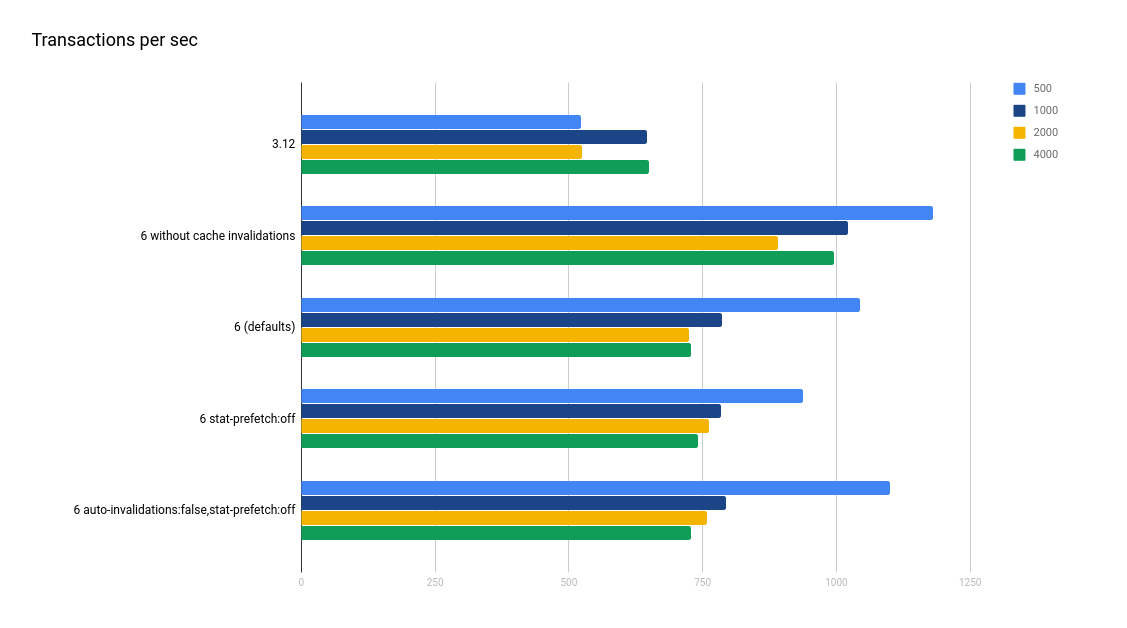
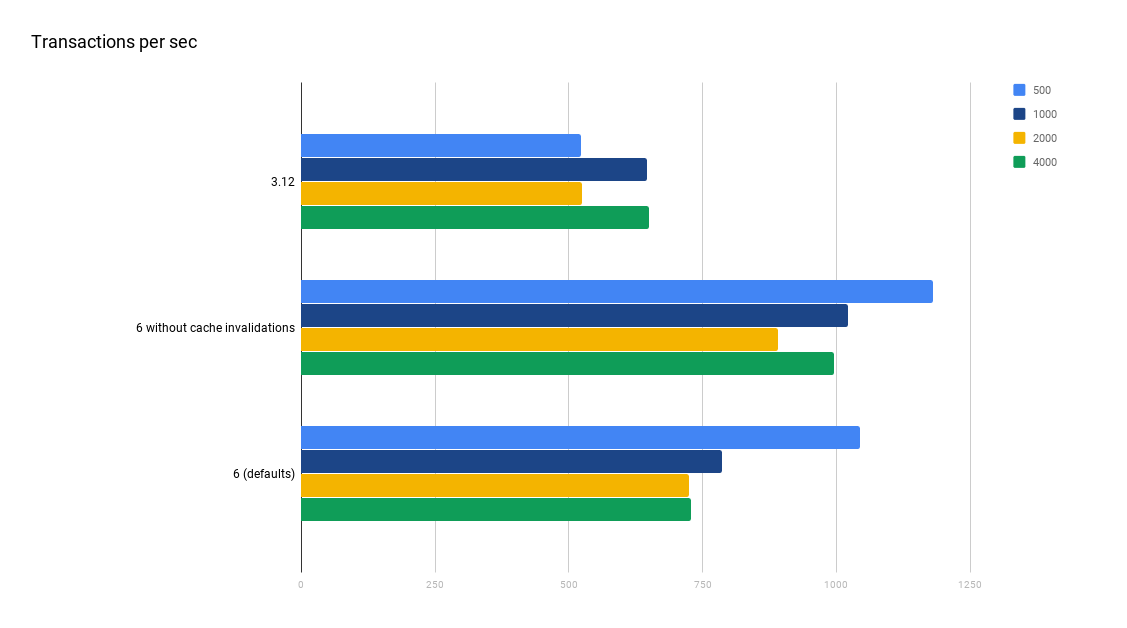
Added Change % and cleaned up images

diff --git a/_posts/2019-04-05-gluster-3-12-vs-6-a-performance-oriented-overview.md b/_posts/2019-04-05-gluster-3-12-vs-6-a-performance-oriented-overview.md
@@ -69,7 +69,7 @@ Steps for preparing the test database:-
 
 `bash-4.2$ time pgbench -i -s 4000 pgbench`
 
-### Time required for creating the database (Gluster 3.12 vs Gluster 6) Thinly Provisioned
+### Time required for creating the database (Gluster 3.12 vs Gluster 6) Thinly Provisioned (Lower is better)
 
 `time pgbench -i -s 4000 pgbench`
 
@@ -82,7 +82,7 @@ Steps for preparing the test database:-
 | 6 (without cache-invalidation) | 25m 24.868s |
 | 6 (defaults)                   | 25m 56.818s |
 
-### Time required for creating the database (Gluster 3.12 vs Gluster 6) Preallocated
+### Time required for creating the database (Gluster 3.12 vs Gluster 6) Preallocated (Lower is better)
 
 `time pgbench -i -s 4000 pgbench`
 
@@ -101,7 +101,7 @@ Steps for preparing the test database:-
 ![time-required-to-create-db](images/gluster-3.12vs-6/time-required-to-create-db.png "Time required to create db")
 
 
-*Time taken to create the db seems to be more in gluster-6 still investigating why.*
+*Time taken to create the db seems to be more in gluster-6 still investigating performance improvements.*
 
 Now let us look at some pg-bench results. Have created two disks *(Preallocated & Thinly-Provisioned)* . Added various parameters to check the performance. These volume options are set from ovirt-ui. Before running tests for stat-prefetch have run
 `echo 3 > /proc/sys/vm/drop_caches && sync` on the hypervisor hosts.
@@ -122,18 +122,25 @@ Arguments to pgbench as -c and -t where -c=number of clients , -t= number of tra
 
 The raw data for the below results are located in : [gluster-pg-bench-test-results](https://github.com/ezio-auditore/gluster-pg-bench-test-results)
 
+**Note:** All results are taken as an average of 3 runs.
+
 |------------------------------------------------------------|---------|----------|----------|----------|
 | Gluster ver with/out options<br/>(Thinly Provisioned disk) | 500 tps | 1000 tps | 2000 tps | 4000 tps |
 |:-----------------------------------------------------------|--------:|---------:|---------:|---------:|
 | 3.12                                                       | 792.38  | 432.49   | 407.42   | 353.82   |
 | 6 (cache-invalidation=false)                               | 902.91  | 612.00   | 562.00   | 596.93   |
 | 6 (defaults)                                               | 806.86  | 729.71   | 618.55   | 526.00   |
-| 6 stat-prefetch:off                                        | 544.63  | 455.17   | 443.49   | 437.03   |
-| 6 auto-invalidations:false,stat-prefetch:off               | 714.50  | 623.94   | 587.63   | 524.30   |
-
-**tps**: Transactions per second|------------------------------------------------------------|---------|----------|----------|----------|
 
 
+**tps**: Transactions per second **Higher is better**
+
+|------------------------------------------------------------|---------|----------|----------|----------|
+| Gluster ver with/out options<br/>(Thinly Provisioned disk) | 500 tps | 1000 tps | 2000 tps | 4000 tps |
+|:-----------------------------------------------------------|--------:|---------:|---------:|---------:|
+| 6 (cache-invalidation=false)                               | +13.88%| +41.15%   | +37%     | +68%     |
+| 6 (defaults)                                               | +1.87% | +68.5%    | +51 %    | +49%     |
+
+**Change % wrt gluster 3.12**
 ![txn-per-sec-thinly-provisioned](images/gluster-3.12vs-6/txn-per-sec-thinly-provisioned.png "txn-per-sec-thinly-provisioned")
 
 |------------------------------------------------------------|---------|----------|----------|----------|
@@ -142,11 +149,17 @@ The raw data for the below results are located in : [gluster-pg-bench-test-resul
 | 3.12                                                       | 522.46  | 646.91   | 524.79   | 650.52   |
 | 6 (cache-invalidation=false)                               | 1180.74 | 1021.76  | 890.18   | 995.00   |
 | 6 (defaults)                                               | 1044.89 | 785.81   | 725.06   | 727.44   |
-| 6 stat-prefetch:off                                        | 937.31  | 783.92   | 761.32   | 741.33   |
-| 6 auto-invalidations:false,stat-prefetch:off               | 1100.84 | 793.44   | 757.88   | 727.38   |
 
-**tps**: Transactions per second
 
+**tps**: Transactions per second **Higher is better**
+
+|------------------------------------------------------------|---------|----------|----------|----------|
+| Gluster ver with/out options<br/>(Preallocated)            | 500 tps | 1000 tps | 2000 tps | 4000 tps |
+|:-----------------------------------------------------------|--------:|---------:|---------:|---------:|
+| 6 (cache-invalidation=false)                               | +126%   | +57%     | +69%     | +53%     |
+| 6 (defaults)                                               | +99.97% | +21%     | +38%     | +11.8%   |
+
+**Change % wrt gluster 3.12**
 ![txn-per-sec-preallocated.png](images/gluster-3.12vs-6/txn-per-sec-preallocated.png "txn-per-sec-preallocated")
 
 There is indeed a performance improvement seen with gluster-6 for certain workloads especially without cache-invalidations, although there is a ~12% performance drop while creating the db.
